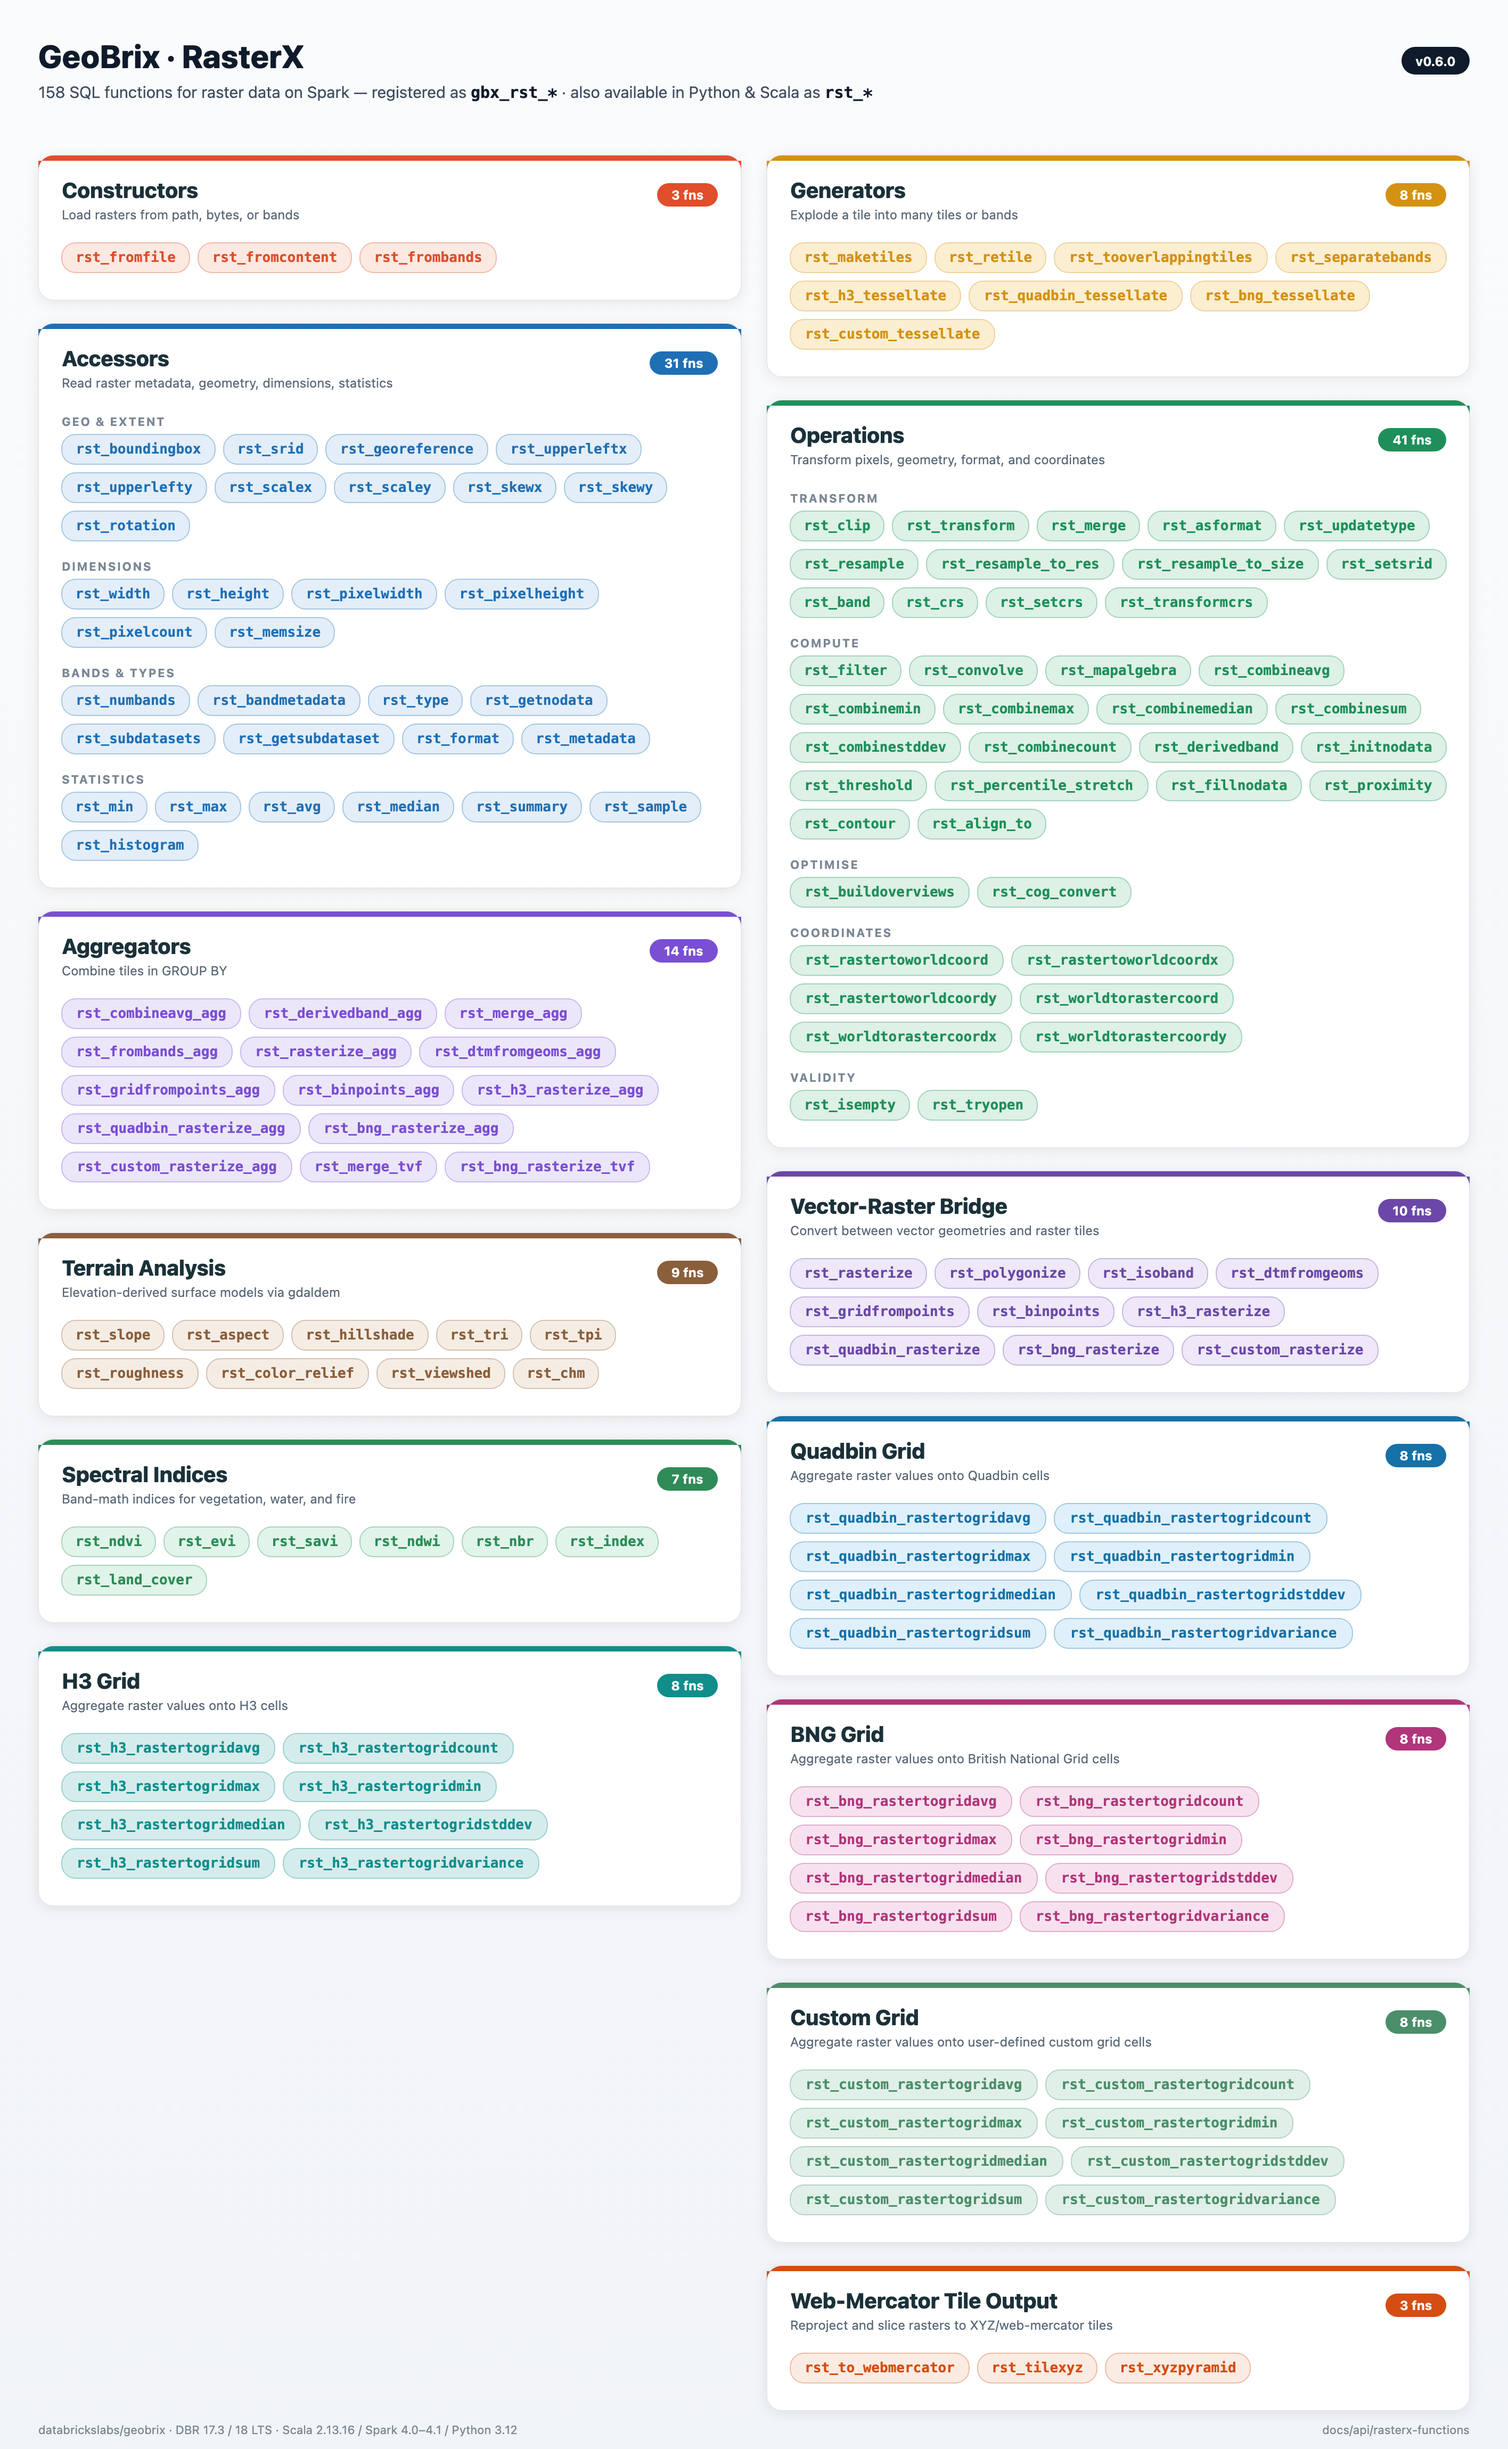
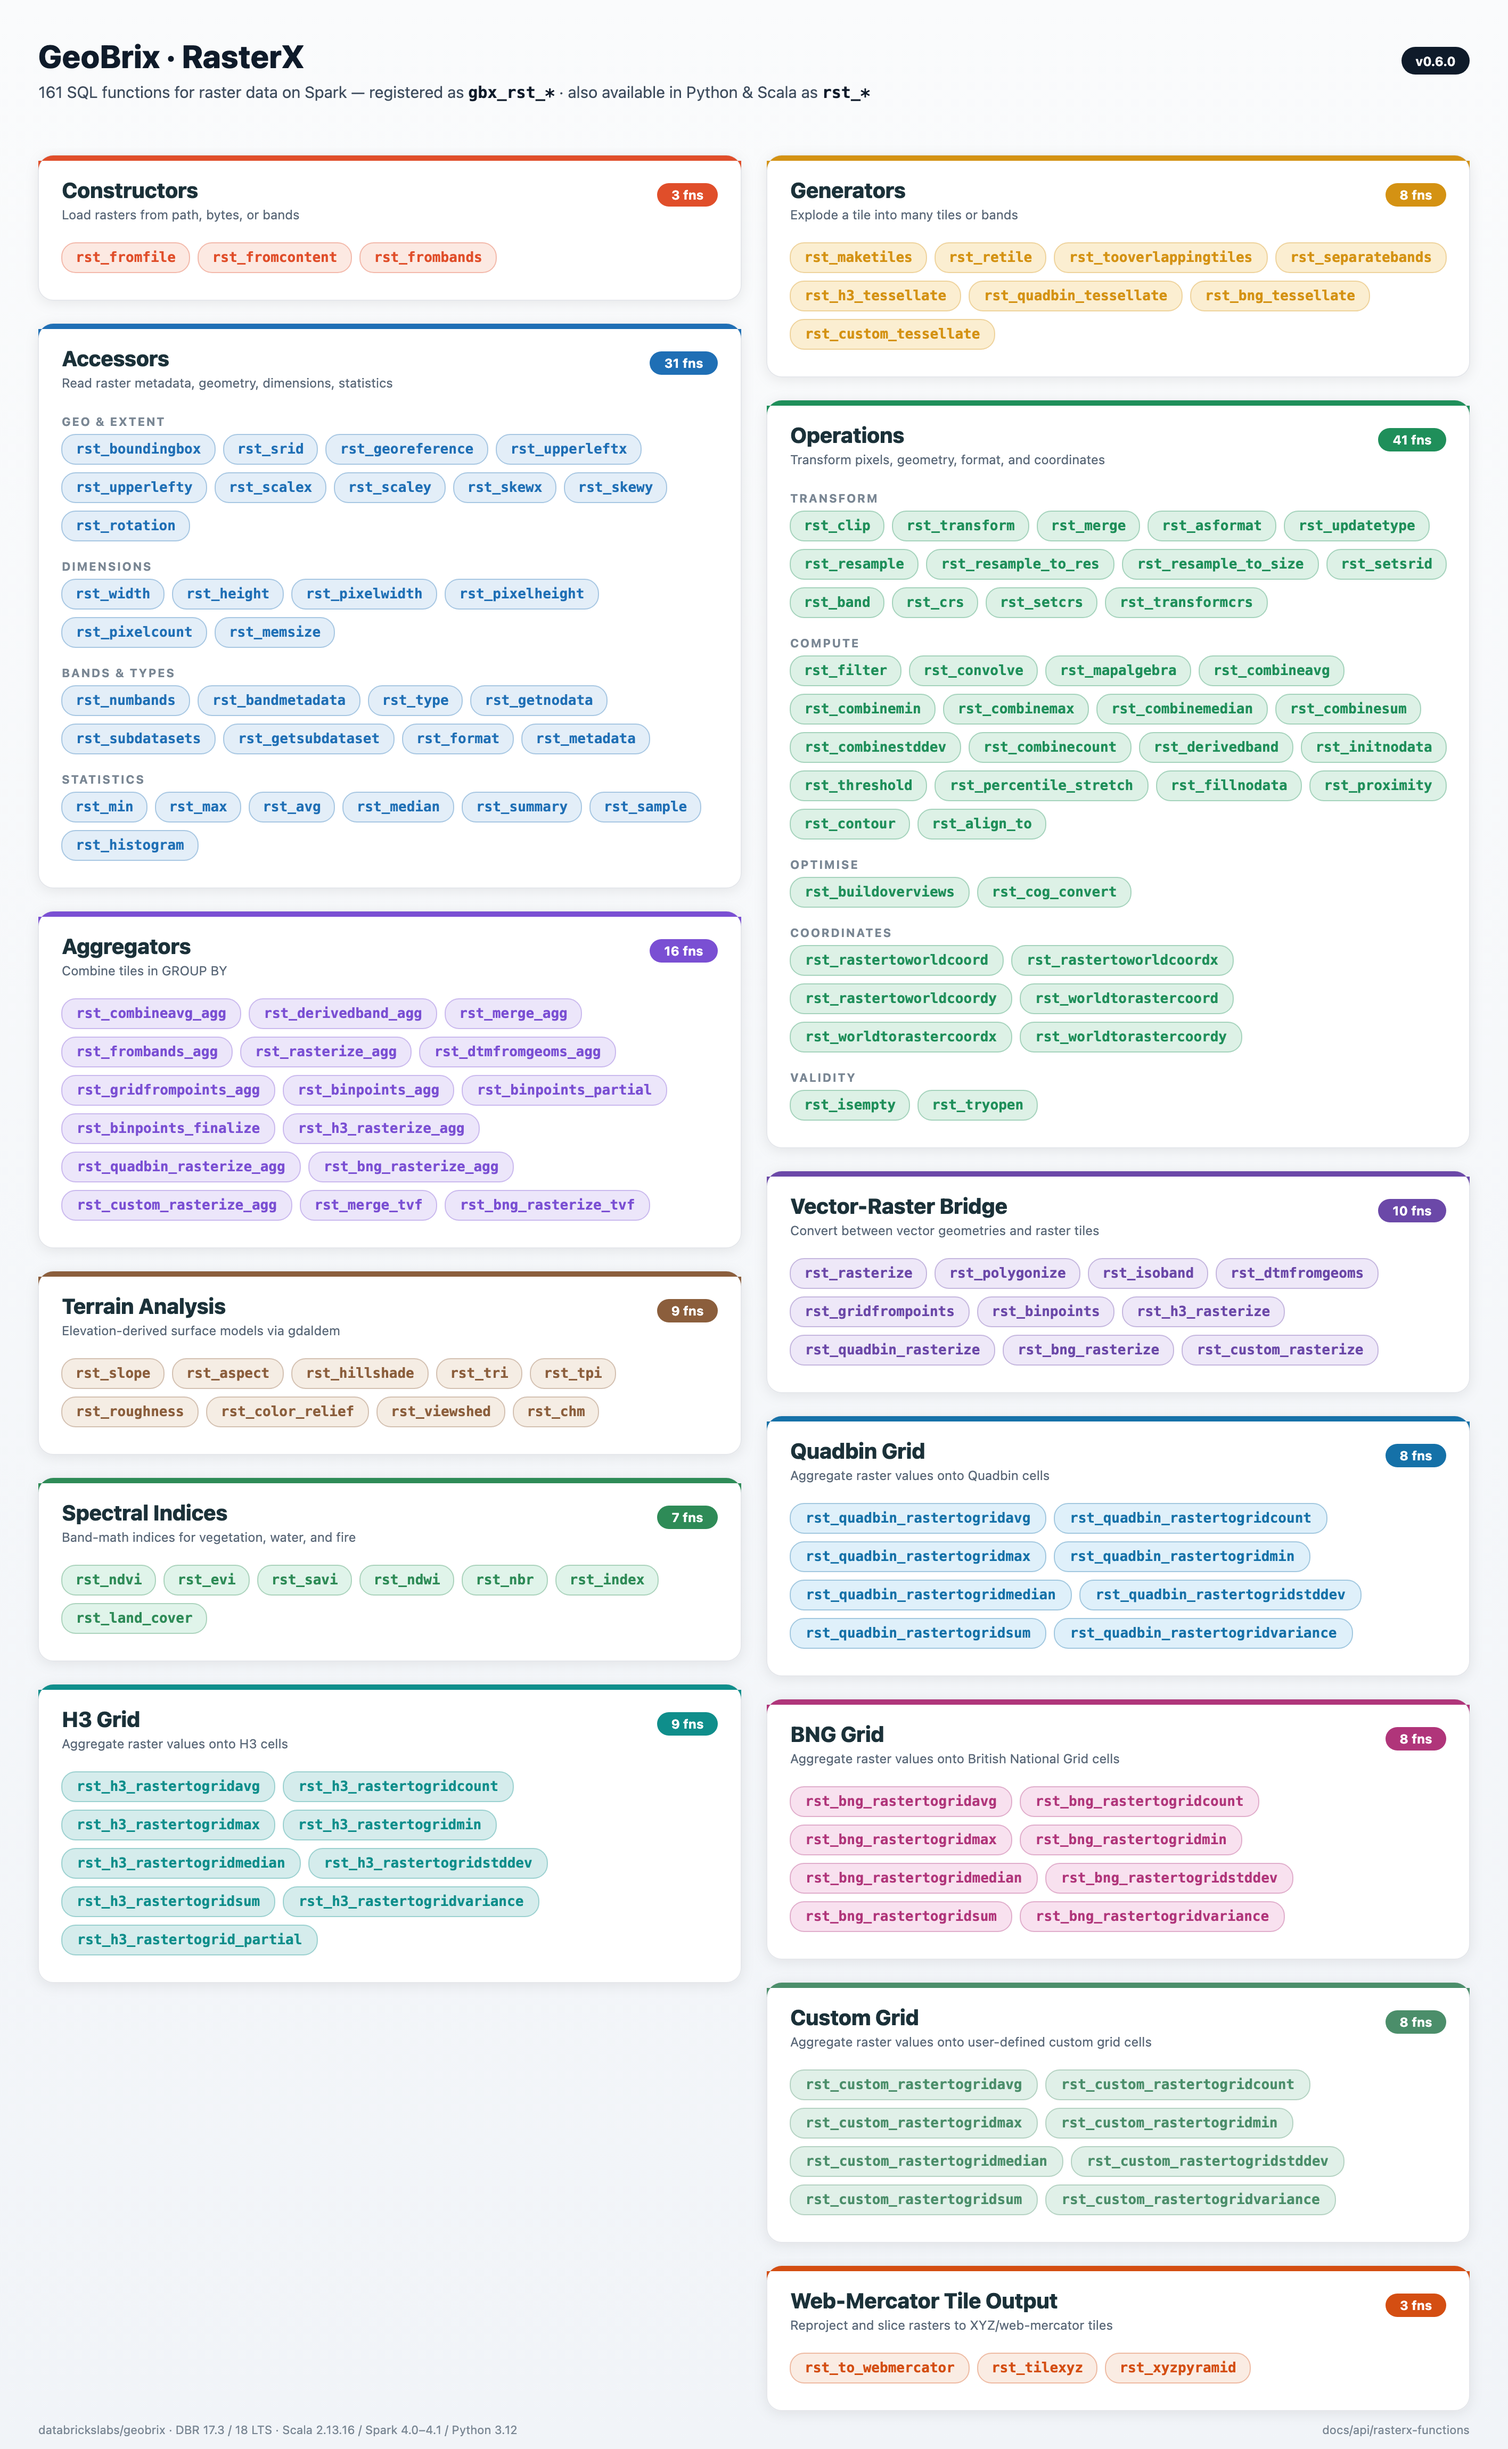
docs(rasterx): add the binpoints and H3 partial functions to the diagram
The registered set grew by three functions: the binpoints partial and
finalize pair and the H3 raster-to-grid partial. The diagram check failed
because none had a pill. The binpoints pair sits with the aggregators and
the H3 partial with the H3 grid. The count strings, the SVGs, the PNGs and
the intro page's totals now read 161 and 249.

Changed region(s): [[0.0311, 0.4352, 0.4972, 0.8083], [0.435, 0.5907, 0.4972, 0.6217], [0.404, 0.0311, 0.435, 0.0622]]

diff --git a/resources/images/generators/rasterx-function-categories.py b/resources/images/generators/rasterx-function-categories.py
@@ -28,7 +28,7 @@ Rasterize landscape PNG (for slides / 16:9 decks):
 from dataclasses import dataclass, field
 from textwrap import dedent
 
-# --- Data: 158 functions, organized by category --------------------------------
+# --- Data: 161 functions, organized by category --------------------------------
 
 @dataclass
 class Section:
@@ -86,6 +86,7 @@ CARDS_LEFT = [
             "rst_combineavg_agg", "rst_derivedband_agg", "rst_merge_agg",
             "rst_frombands_agg", "rst_rasterize_agg",
             "rst_dtmfromgeoms_agg", "rst_gridfrompoints_agg", "rst_binpoints_agg",
+            "rst_binpoints_partial", "rst_binpoints_finalize",
             "rst_h3_rasterize_agg",
             "rst_quadbin_rasterize_agg", "rst_bng_rasterize_agg",
             "rst_custom_rasterize_agg",
@@ -117,6 +118,7 @@ CARDS_LEFT = [
             "rst_h3_rastertogridmax", "rst_h3_rastertogridmin",
             "rst_h3_rastertogridmedian", "rst_h3_rastertogridstddev",
             "rst_h3_rastertogridsum", "rst_h3_rastertogridvariance",
+            "rst_h3_rastertogrid_partial",
         ],
     ),
 ]
@@ -410,7 +412,7 @@ def render():
     )
     parts.append(
         f'<text x="{PAD}" y="{PAD + 56}" font-size="15" fill="#3F4D5E">'
-        f'158 SQL functions for raster data on Spark &#8212; registered as '
+        f'161 SQL functions for raster data on Spark &#8212; registered as '
         f'<tspan font-family="ui-monospace, SFMono-Regular, Menlo, monospace" '
         f'font-weight="700" fill="#0F1B2A">gbx_rst_*</tspan>'
         f' &#183; also available in Python &amp; Scala as '
@@ -519,7 +521,7 @@ def render_landscape():
     )
     parts.append(
         f'<text x="{PAD}" y="{PAD + 56}" font-size="15" fill="#3F4D5E">'
-        f'158 SQL functions for raster data on Spark &#8212; registered as '
+        f'161 SQL functions for raster data on Spark &#8212; registered as '
         f'<tspan font-family="ui-monospace, SFMono-Regular, Menlo, monospace" '
         f'font-weight="700" fill="#0F1B2A">gbx_rst_*</tspan>'
         f' &#183; also available in Python &amp; Scala as '
